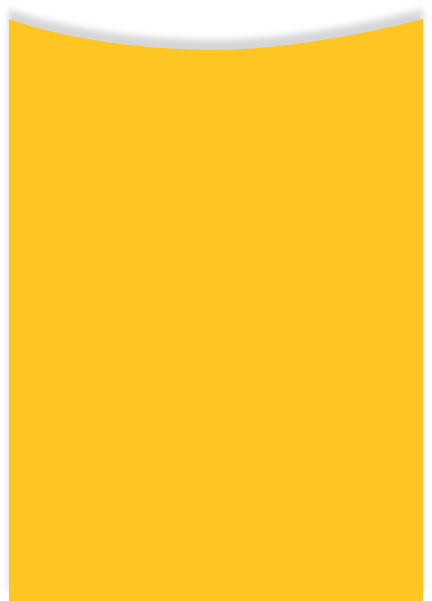
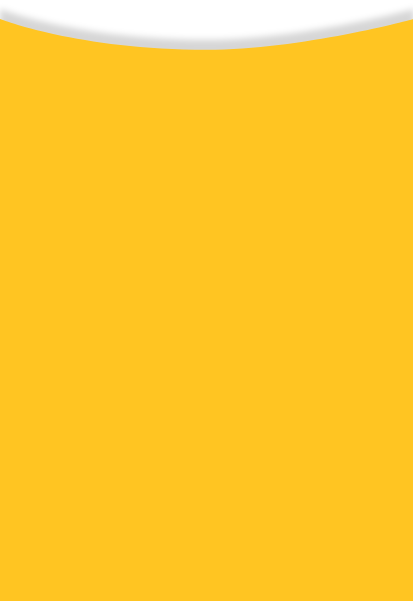
home edit

Changed region(s): [[0.8136, 0.0, 1.0, 1.0], [0.0, 0.0, 0.1453, 1.0]]

diff --git a/app/screens/NewHome/index.js b/app/screens/NewHome/index.js
@@ -1,27 +1,29 @@
+import { useLazyQuery } from '@apollo/client';
+import { CustomImageBackground } from '@components';
+import { query } from '@graphql';
 import { useChangeLanguage } from '@hooks';
 import {
   AppScrollViewIOSBounceColorsWrapper,
   SinglePageLayout,
 } from '@layouts';
-import { useNavigation } from '@react-navigation/native';
-import { AppStyles, images } from '@theme';
-import { CustomImageBackground } from '@components';
-import { scale } from '@utils';
 import { translate } from '@localize';
-import { useDispatch, useSelector } from 'react-redux';
-import { useMutation, useLazyQuery } from '@apollo/client';
-import { mutation, query } from '@graphql';
-import { cart, account } from '@slices';
+import { useNavigation } from '@react-navigation/native';
+import { useHeaderHeight } from '@react-navigation/stack';
+import { AppStyles, images } from '@theme';
+import { scale } from '@utils';
 import React from 'react';
 import { Dimensions, Image, StyleSheet, View } from 'react-native';
-import { TopBarLeft, TopBarRight, CardView } from '../components';
-import { Banners, Bestseller, Tabs, News } from './pages';
+import { CardView, TopBarLeft, TopBarRight } from '../components';
+import { Banners, Bestseller, News, Tabs } from './pages';
+
 const { width, height } = Dimensions.get('window');
 const { scaleWidth, scaleHeight } = scale;
-import { useHeaderHeight } from '@react-navigation/stack';
 
-export default function Index() {
-  const dispatch = useDispatch();
+const BANNER_HEIGHT = height * 0.4;
+const BANNER_PADDING = height * 0.2;
+const MENU_TOP_MARGIN = height * 0.2;
+
+export default function HomeScreen() {
   const navigation = useNavigation();
   const [language] = useChangeLanguage();
   const headerHeight = useHeaderHeight();
@@ -31,7 +33,6 @@ export default function Index() {
   });
 
   const { homeScreen } = data || {};
-  console.log('homeScreen', homeScreen);
 
   React.useEffect(() => {
     getHome();
@@ -53,32 +54,41 @@ export default function Index() {
           <Banners
             loading={loading}
             data={homeScreen?.promotions ? homeScreen?.promotions : []}
+            height={BANNER_HEIGHT}
           />
 
-          {/* --------- Background Yellow ------------ */}
+          {/* ---------START TOP CONTENT  ------------ */}
           <View style={[styles.wrapperContainerLayoutYellow]}>
-            <View style={styles.topContainer} />
+            <View style={[styles.topContainer, { height: BANNER_PADDING }]} />
 
             <View
               style={[
                 styles.containerLayoutYellow,
-                { height: height - scaleHeight(187) - headerHeight },
+                { height: height - BANNER_PADDING - headerHeight },
               ]}>
+              {/* --------- Yellow Background ------------ */}
               <Image
                 source={images.jollibee_background_new_home}
                 style={styles.imgLayoutYellow}
               />
-              {/* --------- Tabs Menu ------------ */}
-              <Tabs />
-              {/* --------- Bestseller list ------------ */}
-              <Bestseller
-                loading={loading}
-                data={homeScreen?.best_sellers ? homeScreen?.best_sellers : []}
-              />
+              {/* --------- Yellow Background ------------ */}
+
+              <View
+                style={[styles.topContentView, { marginTop: MENU_TOP_MARGIN }]}>
+                {/* --------- Tabs Menu ------------ */}
+                <Tabs />
+                {/* --------- Bestseller list ------------ */}
+                <Bestseller
+                  loading={loading}
+                  data={
+                    homeScreen?.best_sellers ? homeScreen?.best_sellers : []
+                  }
+                />
+              </View>
             </View>
           </View>
 
-          {/* --------- </Background Yellow>------------ */}
+          {/* ---------END TOP CONTENT  ------------ */}
 
           {/* --------- Background WaterMark ------------ */}
           <CustomImageBackground
@@ -126,7 +136,6 @@ export default function Index() {
 const styles = StyleSheet.create({
   topContainer: {
     width,
-    height: scaleHeight(187),
     backgroundColor: AppStyles.colors.accent,
   },
 
@@ -161,7 +170,18 @@ const styles = StyleSheet.create({
     overflow: 'hidden',
   },
 
-  imgLayoutYellow: { width, position: 'absolute' },
+  imgLayoutYellow: {
+    position: 'absolute',
+    resizeMode: 'contain',
+    flex: 1,
+  },
+
   iconStyle: { width: scaleWidth(78), height: scaleHeight(71) },
   titleStyle: { fontSize: 18, textAlign: 'center' },
+
+  topContentView: {
+    flex: 1,
+    paddingBottom: 20,
+    justifyContent: 'space-around',
+  },
 });

diff --git a/app/screens/NewHome/pages/tabs.js b/app/screens/NewHome/pages/tabs.js
@@ -1,21 +1,19 @@
-import React from 'react';
-import { StyleSheet, Image, Text, FlatList, View } from 'react-native';
-import { CustomButton } from '@components';
-import { AppStyles, images, metrics } from '@theme';
 import { translate } from '@localize';
 import { useNavigation } from '@react-navigation/native';
+import { AppStyles, images } from '@theme';
+import { scale } from '@utils';
+import React from 'react';
+import { FlatList, StyleSheet, View } from 'react-native';
 import {
+  CardView,
   HomePageName,
-  MenuPageName,
   PromotionPageName,
   StorePageName,
-  CardView,
 } from '../../components';
-import { scale } from '@utils';
-const { scaleWidth, scaleHeight } = scale;
 import ScreenName from '../../ScreenName';
+const { scaleWidth, scaleHeight } = scale;
 
-export default function Tabs() {
+export default function Tabs({}) {
   const navigation = useNavigation();
   const TABS = [
     {
@@ -40,7 +38,7 @@ export default function Tabs() {
     },
   ];
 
-  const renderItem = ({ item, index }) => (
+  const renderItem = ({ item }) => (
     <CardView
       onPress={() => navigation.navigate(item?.screen)}
       borderRadius={scaleHeight(16)}
@@ -70,7 +68,6 @@ export default function Tabs() {
 const styles = StyleSheet.create({
   container: {
     flex: 0,
-    marginTop: scaleHeight(170),
     marginBottom: 0,
     justifyContent: 'center',
     alignItems: 'center',

diff --git a/app/screens/NewHome/pages/banners.js b/app/screens/NewHome/pages/banners.js
@@ -18,9 +18,15 @@ import { scale } from '@utils';
 const { scaleHeight } = scale;
 const { width } = Dimensions.get('window');
 
-const Banners = ({ openDetail, onCHangeScreen, data, loading }) => {
+const Banners = ({
+  openDetail,
+  onCHangeScreen,
+  data,
+  loading,
+  height = scaleHeight(336),
+}) => {
   return (
-    <View style={styles.container}>
+    <View style={[styles.container, { height: height }]}>
       <Carousel
         keyExtractor={(item, index) => index + ''}
         data={!loading ? data : [1, 2, 3]}
@@ -45,7 +51,7 @@ const Banners = ({ openDetail, onCHangeScreen, data, loading }) => {
 
 const renderItem = (item, index, onPress) => {
   return (
-    <TouchableOpacity>
+    <TouchableOpacity style={styles.content}>
       <Image
         source={{ uri: item?.item?.image?.url }}
         style={styles.containerItem}
@@ -67,10 +73,14 @@ const styles = StyleSheet.create({
     shadowRadius: 3,
   },
 
+  content: {
+    width: '100%',
+    height: '100%',
+  },
+
   containerItem: {
-    width,
-    height: scaleHeight(361),
     resizeMode: 'contain',
+    flex: 1,
   },
 });
 

diff --git a/app/navigation/MainStack.js b/app/navigation/MainStack.js
@@ -27,7 +27,7 @@ import {
   StorePickupScreen,
   NewsScreen,
   MenuScreen,
-  NewHomeScreen,
+  HomeScreen,
 } from '../screens';
 import { StyleSheet, View, Image } from 'react-native';
 import { AppStyles, images } from '@theme';
@@ -75,7 +75,7 @@ function MainStack() {
       />
 
       <Stack.Screen
-        component={NewHomeScreen}
+        component={HomeScreen}
         name={ScreenName.NewHome}
         options={{
           headerShown: true,

diff --git a/app/screens/index.js b/app/screens/index.js
@@ -30,7 +30,7 @@ import NewsScreen from './News';
 import ProductCart from './ProductCart';
 import MenuScreen from './Menu';
 
-import NewHomeScreen from './NewHome';
+import HomeScreen from './NewHome';
 module.exports = {
   ScreenName,
   WelcomeScreen,
@@ -63,5 +63,5 @@ module.exports = {
   NewsScreen,
   ProductCart,
   MenuScreen,
-  NewHomeScreen,
+  HomeScreen,
 };
